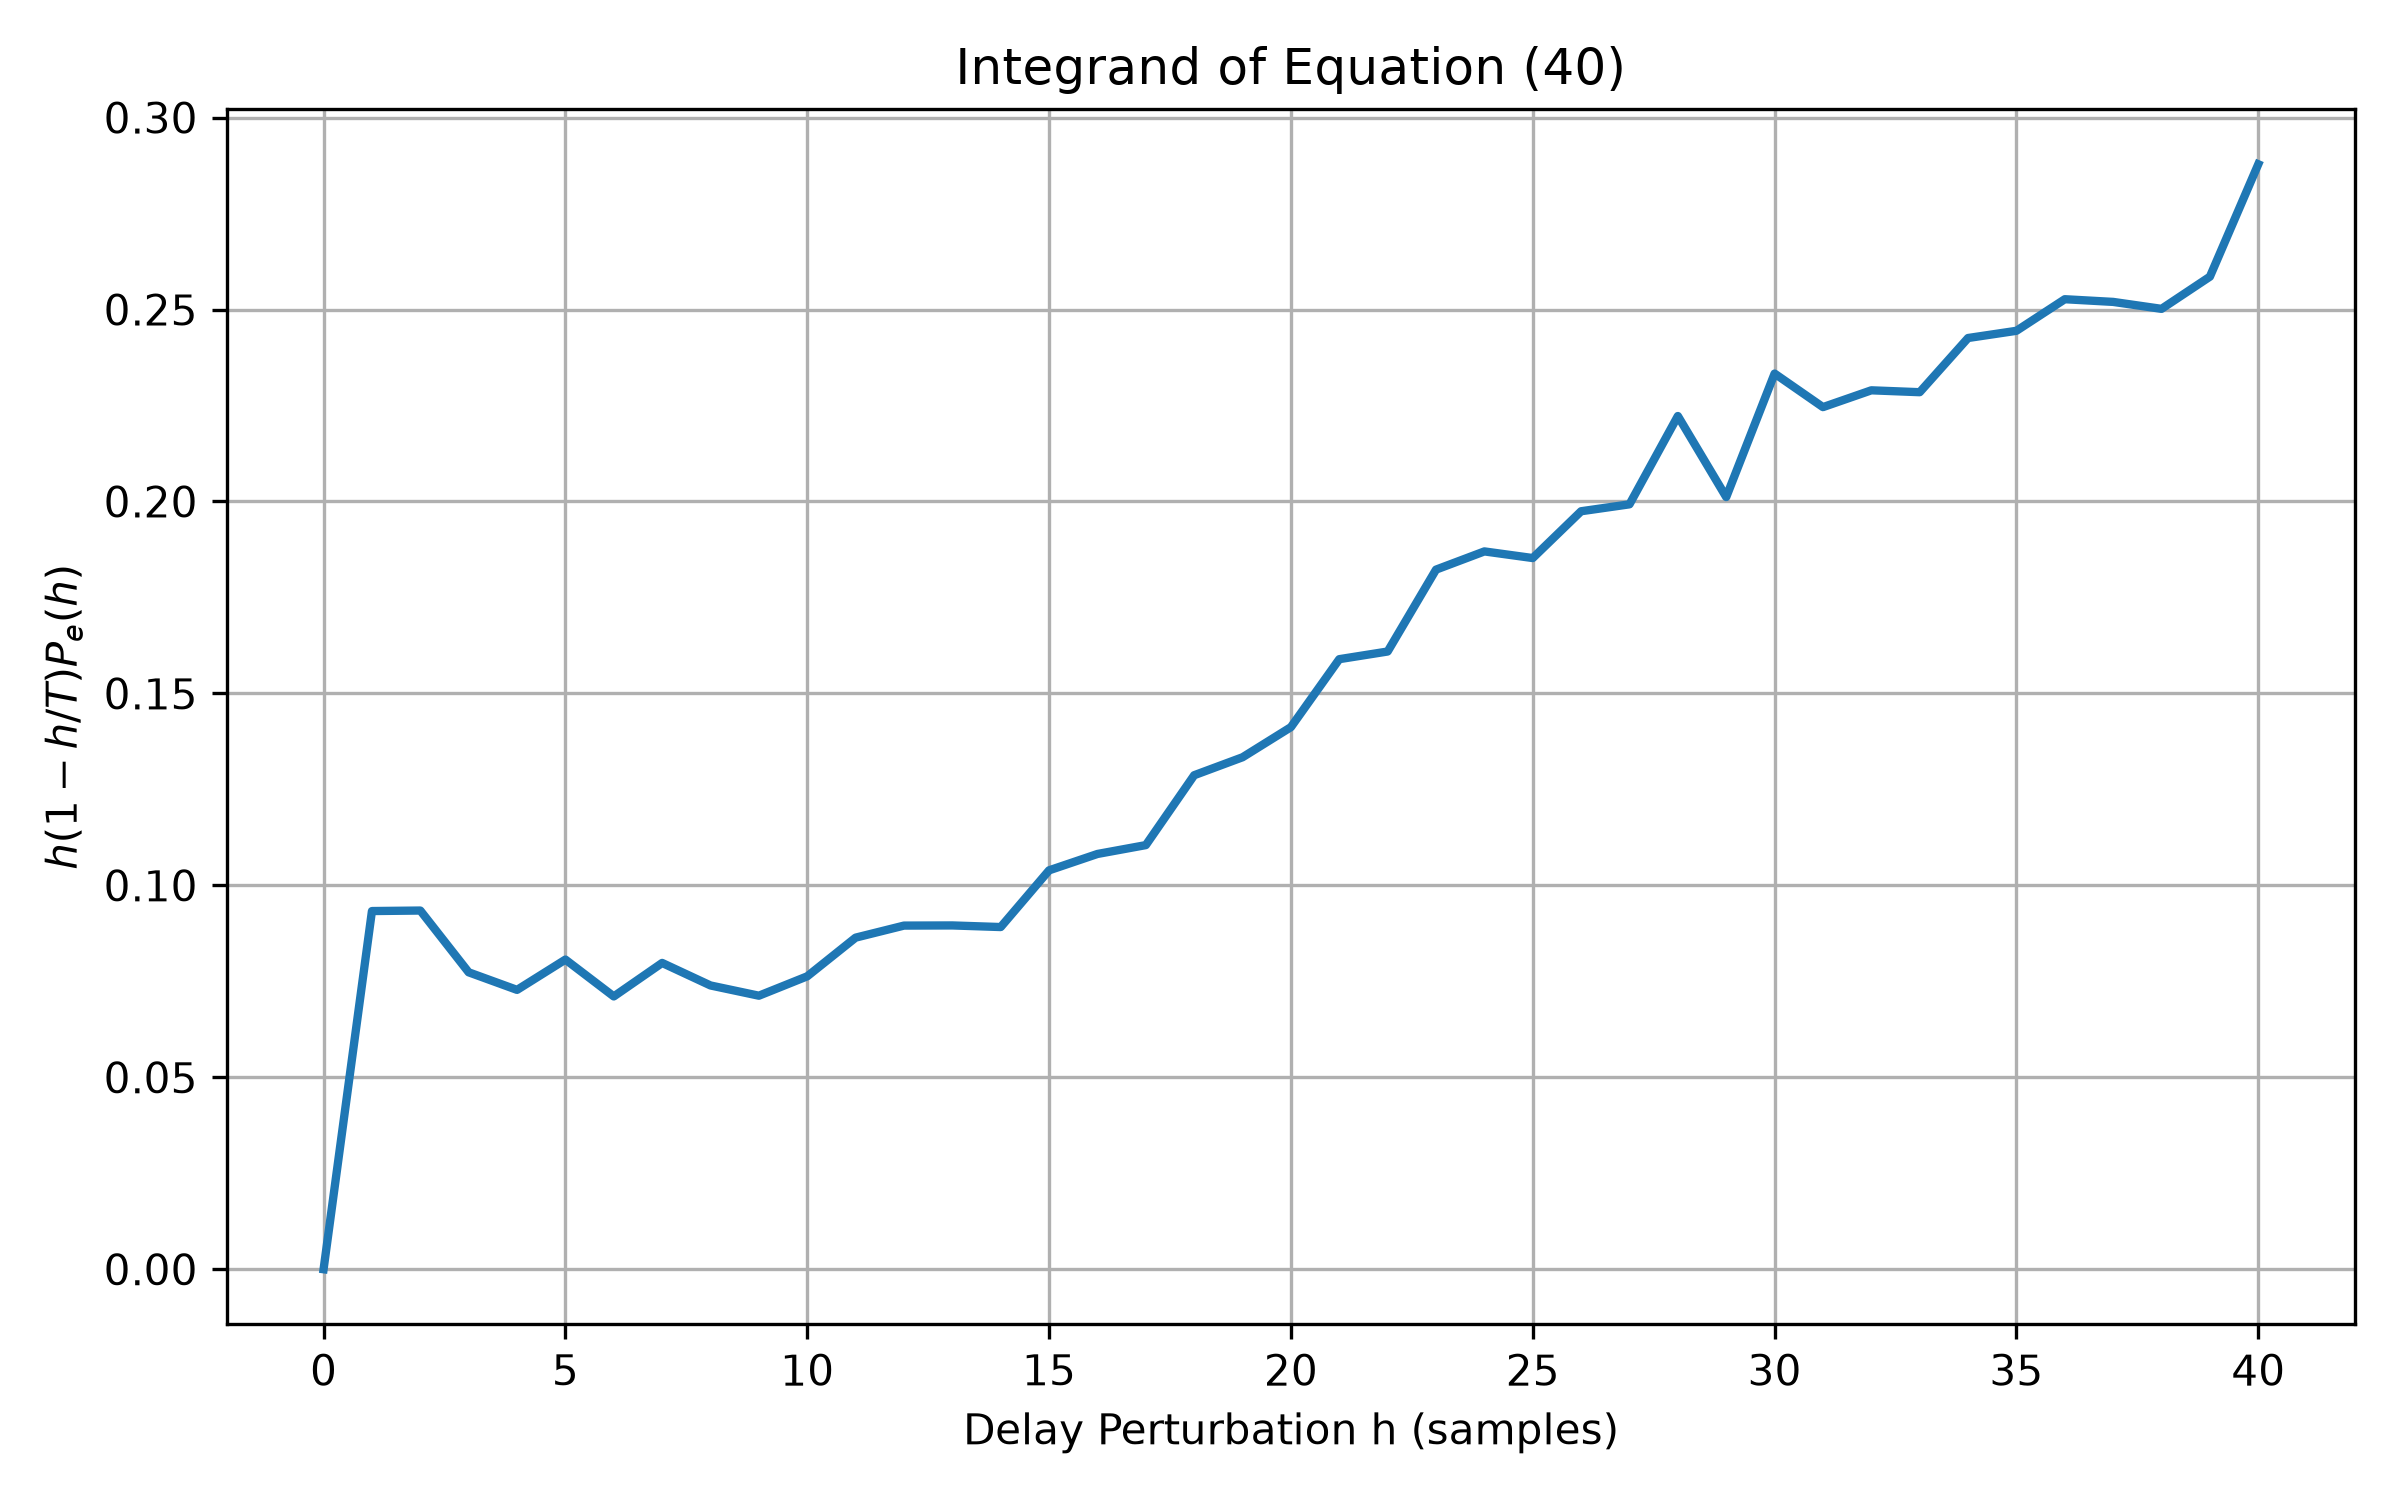
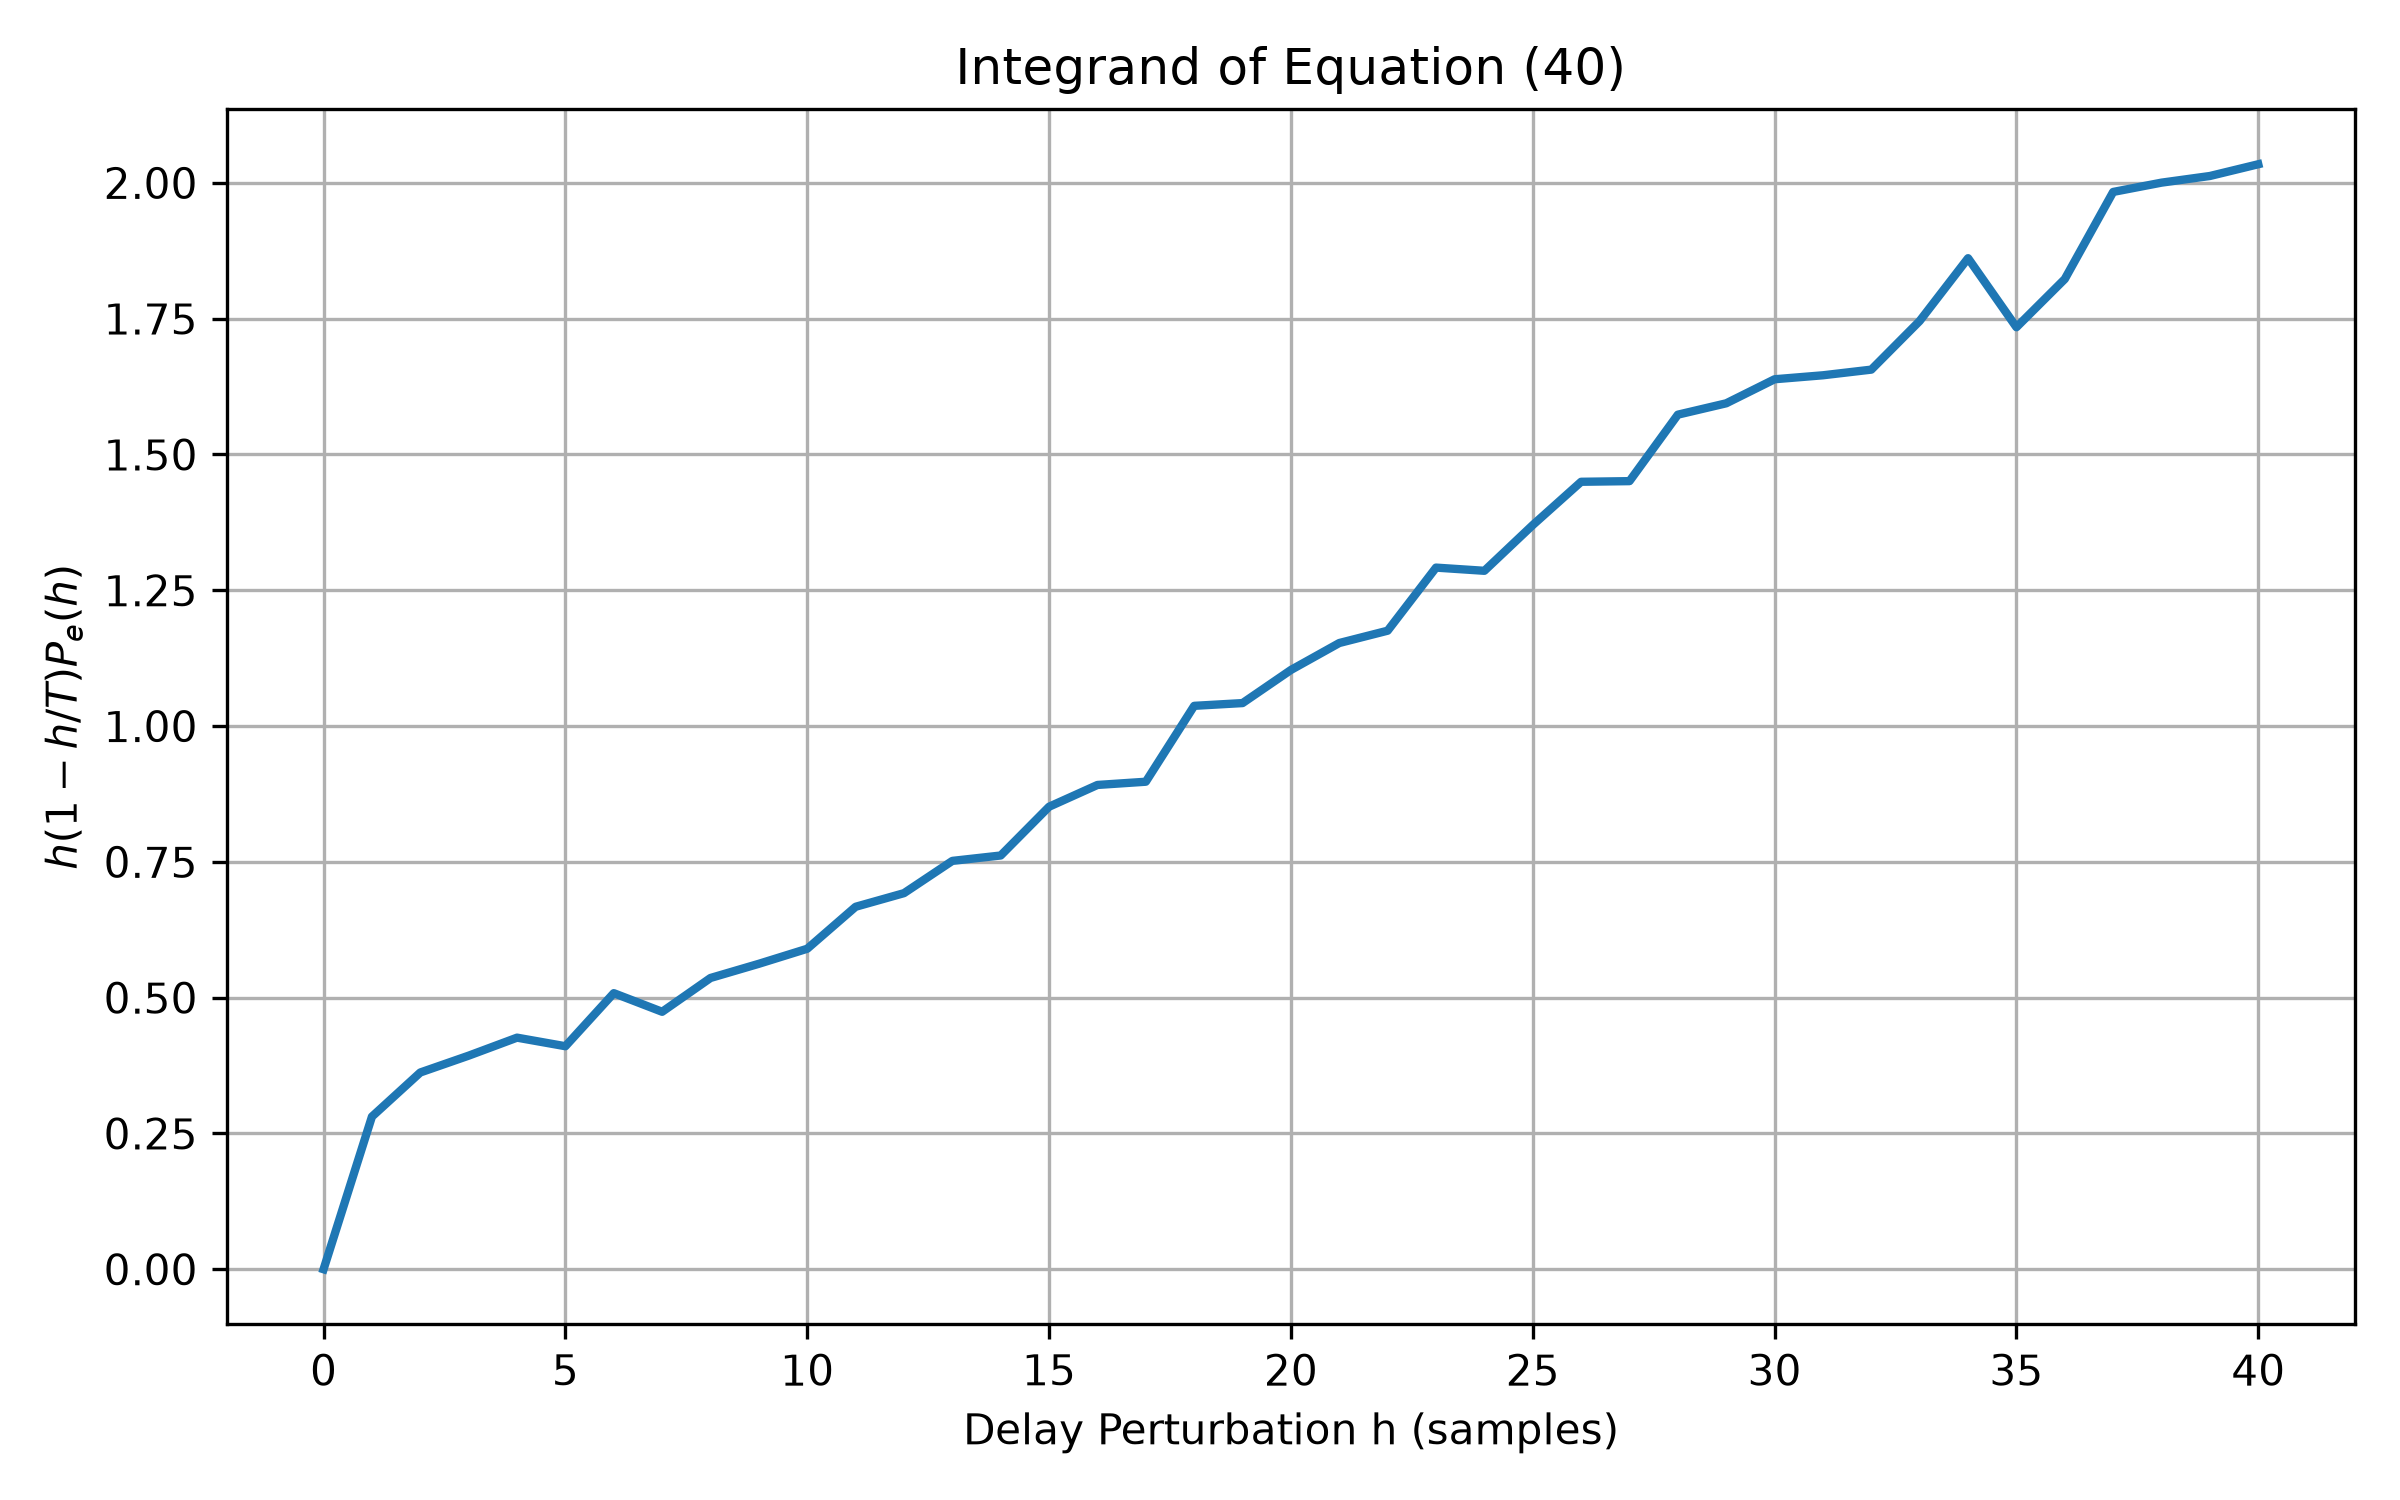
Add monte_carlo.py and snr parameter

diff --git a/Src/monte_carlo.py b/Src/monte_carlo.py
@@ -1,0 +1,162 @@
+"""
+monte_carlo.py
+
+Monte Carlo simulation utilities.
+
+This module repeatedly calls simulate_once()
+to estimate the expectation with respect to
+random target locations.
+
+Mathematically,
+
+    E_tau [ Pe ]
+
+is approximated by
+
+    (1/N) * sum Pe_i
+
+Author:
+"""
+
+import numpy as np
+
+from .simulation import simulate_once
+from .random_targets import generate_random_targets
+
+
+def monte_carlo_pe(
+    *,
+    num_trials: int,
+    fs: float,
+    T: float,
+    B: float,
+    K: int,
+    target_index: int,
+    h: int,
+    max_delay: int,
+    min_spacing: int,
+    sigma_alpha: float = 1.0,
+    snr_db: float = 10.0,
+):
+    """
+    Monte Carlo estimation of Pe(h).
+
+    Parameters
+    ----------
+    num_trials
+        Number of Monte Carlo trials.
+
+    fs
+        Sampling frequency.
+
+    T
+        Pulse duration.
+
+    B
+        Chirp bandwidth.
+
+    K
+        Number of targets.
+
+    target_index
+        Target whose delay is perturbed.
+
+    h
+        Delay perturbation.
+
+    max_delay
+        Maximum allowable delay.
+
+    min_spacing
+        Minimum spacing between targets.
+
+    sigma_alpha
+        Target amplitude standard deviation.
+
+    snr_db
+        Signal-to-noise ratio.
+
+    Returns
+    -------
+    dict
+    """
+
+    pe_all = []
+    bd_all = []
+
+    last_result = None
+
+    for _ in range(num_trials):
+
+        # ----------------------------------
+        # Random target generation
+        # ----------------------------------
+
+        taus = generate_random_targets(
+            K=K,
+            max_delay=max_delay,
+            min_spacing=min_spacing,
+        )
+
+        # ----------------------------------
+        # One complete simulation
+        # ----------------------------------
+
+        result = simulate_once(
+            fs=fs,
+            T=T,
+            B=B,
+            taus=taus,
+            target_index=target_index,
+            h=h,
+            sigma_alpha=sigma_alpha,
+            snr_db=snr_db,
+        )
+
+        pe_all.append(result["Pe"])
+        bd_all.append(result["BD"])
+
+        last_result = result
+
+    pe_all = np.asarray(pe_all)
+    bd_all = np.asarray(bd_all)
+
+    return {
+
+        # -------------------------
+        # Monte Carlo averages
+        # -------------------------
+
+        "mean_pe": float(np.mean(pe_all)),
+
+        "mean_bd": float(np.mean(bd_all)),
+
+        # -------------------------
+        # Monte Carlo statistics
+        # -------------------------
+
+        "std_pe": float(np.std(pe_all)),
+
+        "std_bd": float(np.std(bd_all)),
+
+        # -------------------------
+        # Raw samples
+        # -------------------------
+
+        "pe_all": pe_all,
+
+        "bd_all": bd_all,
+
+        # -------------------------
+        # Number of trials
+        # -------------------------
+
+        "num_trials": num_trials,
+
+        # -------------------------
+        # Last realization
+        # (useful for visualization)
+        # -------------------------
+
+        "last_result": last_result,
+    }

diff --git a/Src/bhattacharyya.py b/Src/bhattacharyya.py
@@ -48,13 +48,28 @@ def logdet_from_gram(
 
     return logdet
 
+def snr_db_to_noise_std(
+    snr_db: float,
+    sigma_alpha: float = 1.0,
+) -> float:
+    """
+    Convert SNR(dB) to noise standard deviation.
+
+    SNR = sigma_alpha^2 / sigma_noise^2
+    """
+
+    snr_linear = 10 ** (snr_db / 10)
+
+    sigma_noise = sigma_alpha / np.sqrt(snr_linear)
+
+    return float(sigma_noise)
 
 def bhattacharyya_distance(
     G0: np.ndarray,
     G1: np.ndarray,
     Gavg: np.ndarray,
     sigma_alpha: float = 1.0,
-    sigma_noise: float = 1.0,
+    snr_db: float = 10.0,
 ) -> float:
     """
     Compute Bhattacharyya distance.
@@ -75,6 +90,17 @@ def bhattacharyya_distance(
     float
         Bhattacharyya distance
     """
+    sigma_noise = snr_db_to_noise_std(
+    snr_db,
+    sigma_alpha,
+    )
+
+    # print("----------------------------")
+    # print("snr_db      =", snr_db)
+    # print("sigma_alpha =", sigma_alpha)
+    # print("sigma_noise =", sigma_noise)
+    # print("----------------------------")
+
 
     logdet0 = logdet_from_gram(
         G0,

diff --git a/Src/simulation.py b/Src/simulation.py
@@ -116,7 +116,7 @@ def simulate_once(
     target_index,
     h,
     sigma_alpha=1.0,
-    sigma_noise=1.0,
+    snr_db=10.0,
 ):
     """
     Perform one complete simulation.
@@ -145,7 +145,7 @@ def simulate_once(
         G1,
         Gavg,
         sigma_alpha,
-        sigma_noise,
+        snr_db,
     )
 
     Pe = pe_bhattacharyya(BD)

diff --git a/Src/config.py b/Src/config.py
@@ -13,3 +13,5 @@ N_TRIALS = 500
 # Noise model
 SIGMA_ALPHA = 1.0
 SIGMA_NOISE = 1.0
+
+DEFAULT_SNR_DB = 10

diff --git a/Experiment/04.py b/Experiment/04.py
@@ -79,6 +79,7 @@ for h in H_VALUES:
             taus=taus,
             target_index=TARGET_INDEX,
             h=int(h),
+            snr_db=-10,
         )
 
         pe_sum += result["Pe"]